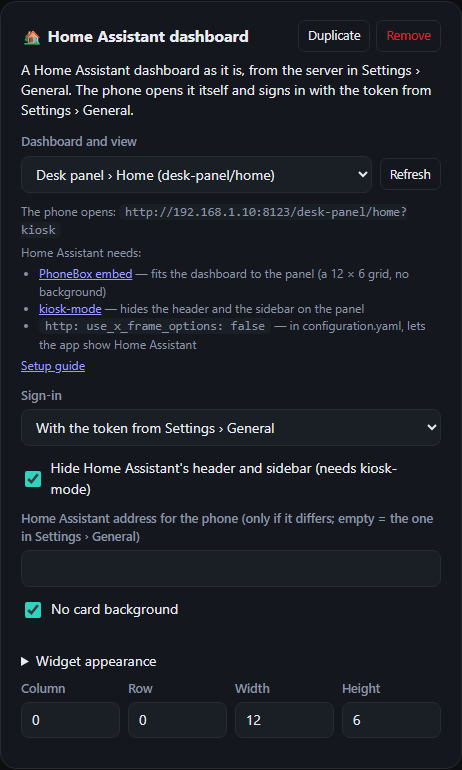
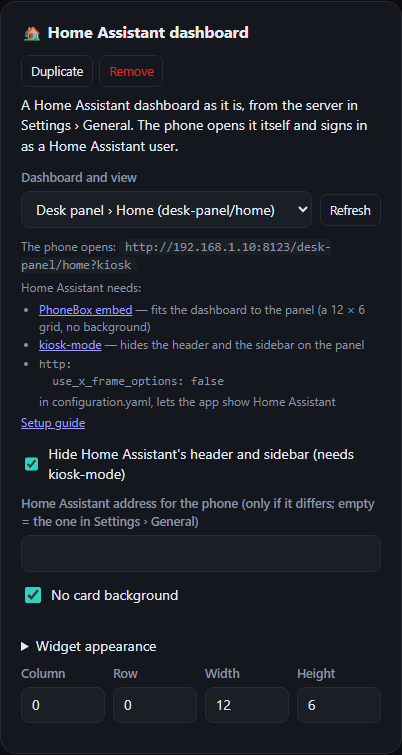
README: PhoneBox signs in as a Home Assistant user, the token stays on the computer; new settings screenshot

diff --git a/README.ru.md b/README.ru.md
@@ -60,22 +60,24 @@ http:
 ### 4. PhoneBox
 
 1. **Настройки › Общие › Home Assistant**: адрес и долгосрочный токен доступа (в Home Assistant: ваш профиль ›
-   **Безопасность**). Телефон входит по этому токену, как официальное приложение Home Assistant: без пароля на
-   телефоне и без доверенных сетей.
+   **Безопасность**). Токен остаётся на компьютере: PhoneBox берёт его только для списка дашбордов.
 2. Добавьте на страницу виджет **Дашборд Home Assistant** (обычно на всю страницу) и выберите дашборд в его
    настройках. Строка **Телефон откроет** под списком показывает точный адрес.
 
 ![Настройки виджета в PhoneBox](docs/widget-settings.png)
 
-Дашборд работает от имени владельца токена. Если к панели есть доступ у других, заведите в Home Assistant
-пользователя без прав администратора, в виджете выберите **Вход › Вход Home Assistant** и один раз войдите на телефоне.
+3. Один раз войдите в Home Assistant на телефоне, прямо в виджете; Home Assistant запомнит телефон. Лучше под
+   отдельным пользователем для панели, без прав администратора. Если вводить удобнее в портретной ориентации,
+   переключите её в PhoneBox: **Настройки › Экран**. С
+   [доверенными сетями](https://www.home-assistant.io/docs/authentication/providers/#trusted-networks) пароль на
+   телефоне не нужен совсем.
 
 ## Если что-то не так
 
 | Что видно | Что сделать |
 |---|---|
 | Пустой виджет | Шаг 2, затем перезапуск Home Assistant |
-| Страница входа Home Assistant | Токен в PhoneBox › Настройки › Общие и **Вход: по токену** в виджете |
+| Страница входа Home Assistant каждый раз | Войдите в виджете один раз; если вход снова пропал, на телефоне очистили данные или в Home Assistant удалили сеансы пользователя |
 | «Home Assistant не отвечает» | Проверьте строку **Телефон откроет** в настройках виджета и что телефон в той же сети |
 | Обычная сетка, фон, шапка | Модуль или kiosk-mode не загружен: обновите Home Assistant через Ctrl+Shift+R. В консоли браузера модуль пишет строку `PHONEBOX-EMBED` |
 | Размеры в редакторе не совпадают с панелью | Шаг 3.2: один столбец разделов, раздел шириной в один столбец |

diff --git a/README.md b/README.md
@@ -62,22 +62,24 @@ Keep **one section column** and one section per view. With wider sections Home A
 ### 4. PhoneBox
 
 1. **Settings › General › Home Assistant**: the address and a long-lived access token (in Home Assistant: your
-   profile › **Security**). The phone signs in with this token, the way Home Assistant's own app does: no password on
-   the phone, no trusted networks.
+   profile › **Security**). The token stays on the computer: PhoneBox uses it only to list the dashboards.
 2. Add the **Home Assistant dashboard** widget to a page (usually the whole page) and pick the dashboard in its
    settings. Under the list, **The phone opens** shows the exact address.
 
 ![The widget's settings in PhoneBox](docs/widget-settings.png)
 
-The dashboard then runs as the token's user. For a panel others can reach, make a Home Assistant user without
-administrator rights, choose **Sign-in › Home Assistant's own sign-in** in the widget and sign in once on the phone.
+3. Sign in to Home Assistant once on the phone, in the widget; Home Assistant keeps the phone signed in. Best with a
+   Home Assistant user of its own for the panel, without administrator rights. If typing is easier in portrait,
+   switch the orientation in PhoneBox's **Settings › Screen**. With
+   [trusted networks](https://www.home-assistant.io/docs/authentication/providers/#trusted-networks) the phone needs
+   no password at all.
 
 ## Troubleshooting
 
 | What you see | What to do |
 |---|---|
 | An empty widget | Step 2, then restart Home Assistant |
-| Home Assistant's sign-in page | The token in PhoneBox › Settings › General, and **Sign-in: With the token** in the widget |
+| Home Assistant's sign-in page every time | Sign in in the widget once; if it comes back, the phone's storage was cleared or the user's sessions were removed in Home Assistant |
 | "Home Assistant does not answer" | Check **The phone opens** in the widget's settings and that the phone is on the same network |
 | The usual grid, a background, a header | The module or kiosk-mode is not loaded: reload Home Assistant with Ctrl+Shift+R. The browser console shows a `PHONEBOX-EMBED` line when the module is there |
 | Card sizes in the editor do not match the panel | Step 3.2: one section column, a section one column wide |
